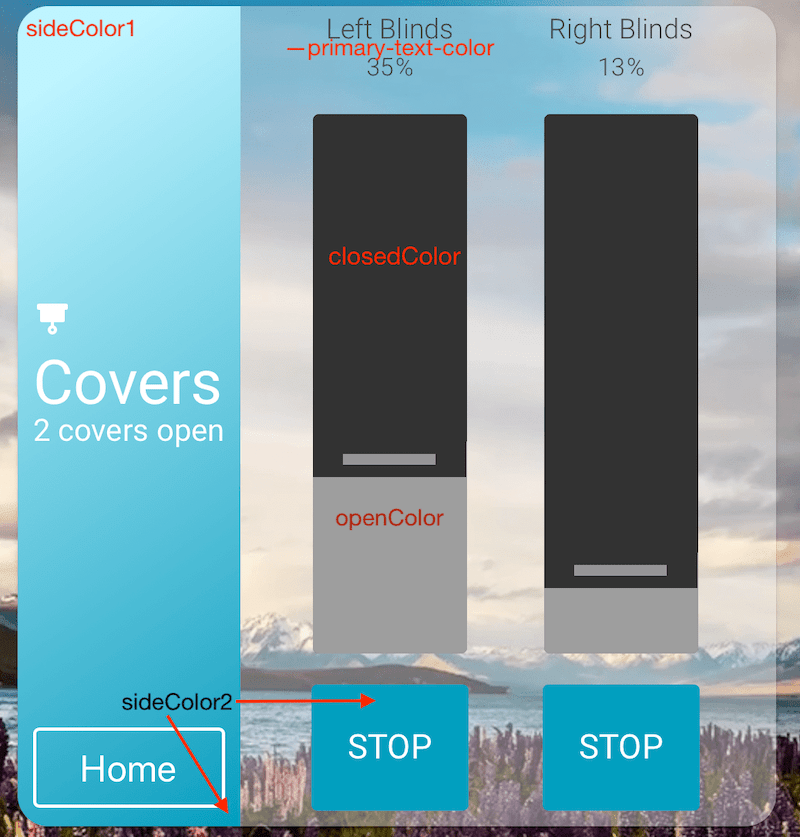
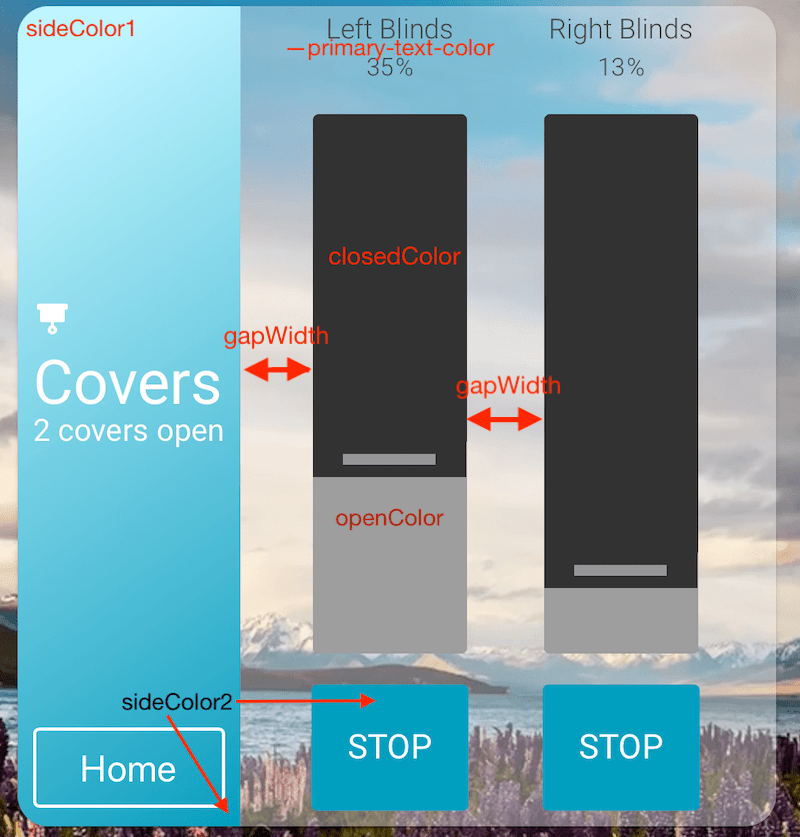
Add more style option
* Add gapWidth
* Add switchColor
* Fix invert side colors (please invert sideColor1/sideColor2 for same effect)
* From now, cover name, cover postition and STOP text will automatically change size to adapt parents' size
* Update README and option image guide to follow

Changed region(s): [[0.5625, 0.4349, 0.7188, 0.5281], [0.2812, 0.3728, 0.4062, 0.4659]]

diff --git a/vertical-slider-cover-card.js b/vertical-slider-cover-card.js
@@ -6,7 +6,7 @@
  * Based on      : github.com/DBuit/hass-smart-home-panel-card (Thanks to DBuit!)
  */
 
-console.info("%c [konnected.vn] Vertical Slider Cover Card  \n%c Version 0.0.5","color: red; font-weight: bold; background: black", "color: white; font-weight: bold; background: dimgray");
+console.info("%c [konnected.vn] Vertical Slider Cover Card  \n%c Version 0.0.6","color: red; font-weight: bold; background: black", "color: white; font-weight: bold; background: dimgray");
 
 import {
     LitElement,
@@ -32,6 +32,7 @@ class VerticalSliderCoverCard extends LitElement {
     var positionHeight = this.config.positionHeight ? this.config.positionHeight : "300px";
     var switchWidth = this.config.switchWidth ? this.config.switchWidth : "100px";
     var switchHeight = this.config.switchHeight ? this.config.switchHeight : "100px";
+    var gapWidth = this.config.gapWidth ? this.config.gapWidth : "50px";
     
     var countText = this.config.countText ? this.config.countText : "covers open";
     var entityCounter = 0;
@@ -41,8 +42,9 @@ class VerticalSliderCoverCard extends LitElement {
     var buttonPath = this.config.buttonPath ? this.config.buttonPath : "/lovelace/0";
     var background = this.config.background ? this.config.background : "transparent";
     
-    var sideColor1 = this.config.sideColor1 ? this.config.sideColor1 : '#b30000';
-    var sideColor2 = this.config.sideColor2 ? this.config.sideColor2 : '#ffcccc';
+    var sideColor1 = this.config.sideColor1 ? this.config.sideColor1 : '#ffcccc';
+    var sideColor2 = this.config.sideColor2 ? this.config.sideColor2 : '#b30000';
+    var switchColor = this.config.switchColor ? this.config.switchColor : sideColor2;
     var closedColor = this.config.closedColor ? this.config.closedColor : 'hsl(0, 0%, 20%)';
     var openColor = this.config.openColor ? this.config.openColor: 'hsl(0, 0%, 90%, 0.6)';
     var panelType = this.config.panelType;
@@ -67,7 +69,7 @@ class VerticalSliderCoverCard extends LitElement {
           </div>
           
           <div class="main">
-            <div class="inner-main" style="width:${this.config.entities.length * 150}px;">
+            <div class="inner-main" style="width:${this.config.entities.length * this._coverSize(positionWidth, gapWidth)}px;">
             ${this.config.entities.map(ent => {
                 entityCounter++;
                 var switchValue = 0;
@@ -83,11 +85,11 @@ class VerticalSliderCoverCard extends LitElement {
                         switchValue = 0;
                 }
                 return stateObj ? html`
-                    <div class="cover">
+                    <div class="cover" style="--cover-width:${this._coverSize(positionWidth,gapWidth)}px;">
                       <div class="cover-slider">
-                        <h3>${ent.name || stateObj.attributes.friendly_name}</h3>
+                        <p class="cover-name" style="--cover-fontSize: ${this._coverNameFont(positionWidth,gapWidth)}px;">${ent.name || stateObj.attributes.friendly_name}</p>
                         ${stateObj.attributes.supported_features > 9 ? html`
-                            <h4 class="position">${stateObj.state === "closed" ? 0 : Math.round(stateObj.attributes.current_position)}</h4>
+                            <p class="cover-position" style="--cover-fontSize: ${parseInt(positionWidth.replace(/px/,"")) / 4 - (parseInt(positionWidth.replace(/px/,"")) - 80) / 4}px;">${stateObj.state === "closed" ? 0 : Math.round(stateObj.attributes.current_position)}</p>
                             <div class="range-holder" style="--slider-height: ${positionHeight};--closed-color: ${closedColor};">
                               <input type="range" class="${stateObj.state}" style="--slider-width: ${positionWidth};--slider-height: ${positionHeight};--closed-color: ${closedColor};--open-color: ${openColor};" .value="${stateObj.state === "closed" ? 0 : Math.round(stateObj.attributes.current_position)}" @change=${e => this._setPosition(stateObj, e.target.value)}>
                             </div>
@@ -99,7 +101,7 @@ class VerticalSliderCoverCard extends LitElement {
                         `}
                         <div class="toggle">
                             <input ?checked=${stateObj.state == "open"} type="checkbox" id="toggle${entityCounter}" class="toggle-btn" @change=${e => this._switch(stateObj)} />
-                            <label for="toggle${entityCounter}" style="--switch-width: ${switchWidth};--switch-height: ${switchHeight};--switch-color: ${sideColor1};"><span></span></label>
+                            <label for="toggle${entityCounter}" style="--switch-width: ${switchWidth};--switch-height: ${switchHeight};--switch-color: ${switchColor};--switch-labelSize: ${parseInt(switchWidth.replace(/px/,"")) / 4}px;"><span></span></label>
                             </div>
                       </div>
                     </div>
@@ -135,12 +137,27 @@ class VerticalSliderCoverCard extends LitElement {
   _panelSize(panelType) {
     let sideWidth = 40;
     if (panelType === true) {
-    	console.log(panelType);
 		sideWidth = 30;
 	}
   	return sideWidth;
   }
-
+    
+  _coverSize(positionWidth, gapWidth) {
+    return (parseInt(positionWidth.replace(/px/,"")) + parseInt(gapWidth.replace(/px/,"")));
+  }
+  
+  _coverNameFont(positionWidth, gapWidth) {
+    var maxLength = 0;
+    this.config.entities.map(ent => {
+          const stateObj = this.hass.states[ent.entity];
+          var name = ent.name || stateObj.attributes.friendly_name;
+          if(name.length > maxLength) {
+              maxLength = name.length;
+          }
+      })
+    return (((parseInt(positionWidth.replace(/px/,"")) + parseInt(gapWidth.replace(/px/,"")) - 4 ) / maxLength) * 1.6) | 0;
+  }
+  
   _switch(state) {
       this.hass.callService("cover", "stop_cover", {
         entity_id: state.entity_id    
@@ -193,20 +210,18 @@ class VerticalSliderCoverCard extends LitElement {
         }
         .page > .side {
           padding: 10px;
-          width: var(--side-width);
+          width: var(--side-width)%;
           display:flex;
           flex-direction:column;
           background: rgb(28,122,226);
-          background: linear-gradient(325deg, var(--sideColor-1) 0%, var(--sideColor-2) 90%);
+          background: linear-gradient(145deg, var(--sideColor-1) 0%, var(--sideColor-2) 90%);
           justify-content:space-between
         }
         .side .header {
-          
         }
         .side .center {
           display:flex;
           flex-direction:column;
-          
         }
         .side .center .icon {
           display:block;
@@ -245,7 +260,6 @@ class VerticalSliderCoverCard extends LitElement {
         }
         
         .page > .main {
-          width:70%;
           overflow-x:scroll;
         }
         .page > .main > .inner-main {
@@ -256,7 +270,7 @@ class VerticalSliderCoverCard extends LitElement {
             margin:auto;
         }
         .page > .main > .inner-main > .cover {
-          width:150px;
+          width: var(--cover-width);
           display:inline-block;
         }
         
@@ -287,6 +301,7 @@ class VerticalSliderCoverCard extends LitElement {
           font-size:20px;
           margin-top:0;
         }
+        
         h3 {
           color: #FFF;
           display: block;
@@ -296,9 +311,27 @@ class VerticalSliderCoverCard extends LitElement {
           text-align: center;
           font-size:18px;
         }
-        .cover-slider h3 {
+        
+        .cover-name {
+          display: block;
+          font-weight: 300;
+          margin-top: 5px;
+          margin-bottom: 5px;
+          text-align: center;
+          font-size: var(--cover-fontSize);
+        }
+        .cover-position {
+          display: block;
+          font-weight: 300;
+          margin-top: 15px;
+          margin-bottom: 10px;
+          text-align: center;
+          font-size: var(--cover-fontSize);
+        }
+        .cover-slider .cover-name, .cover-position {
           color: var(--primary-text-color);
         }
+        
         h4 {
           color: var(--primary-text-color);
           display: block;
@@ -342,7 +375,7 @@ class VerticalSliderCoverCard extends LitElement {
           height: var(--slider-width);
           -webkit-appearance: none;
           color: var(--open-color);
-          margin-top: -1px;
+          margin-top: 0px;
           transition: box-shadow 0.2s ease-in-out;
         }
         .range-holder input[type="range"]::-webkit-slider-thumb {
@@ -436,7 +469,7 @@ class VerticalSliderCoverCard extends LitElement {
           border-radius: 4px;
           color: #FFF;
           display:block;
-          font-size:22px;
+          font-size:var(--switch-labelSize);
         }
         .toggle > input.toggle-btn + label:active,
         .toggle > input.toggle-btn + label {

diff --git a/README.md b/README.md
@@ -40,6 +40,7 @@ Color Picker Helper
 | positionWidth     | string  | **Optional** | Width of each slider in px                  | `100px`                  |
 | switchHeight      | string  | **Optional** | Height of Stop button at bottom             | `100px`                  |
 | switchWidth       | string  | **Optional** | Width of Stop button at bottom              | `100px`                  |
+| gapWidth          | string  | **Optional** | Width of Space between 2 cover slider       | `50px`                   |
 | showButton        | string  | **Optional** | Show Home button at bottom of side bar      | `hide`                   |
 | buttonPath        | string  | **Optional** | Path of Lovelace View when click button     | `/lovelace/0`            |
 | buttonText        | string  | **Optional** | Text to show on button                      | `Home`                   |
@@ -49,6 +50,7 @@ Color Picker Helper
 | sideColor2        | string  | **Optional** | Lower-right color of sidebar (~)            | `#ffcccc`                |
 | openColor         | string  | **Optional** | Color of lower slider bar (~)               | `hsl(0, 0%, 90%, 0.8)`   |
 | closedColor       | string  | **Optional** | Color of upper slider bar (~)               | `hsl(0, 0%, 20%)`        |
+| switchColor       | string  | **Optional** | background color of Stop button (~)         | `sideColor2`             |
 
 ## STARTING A NEW CARD FROM vertical-silder-cover-card
 
@@ -119,6 +121,10 @@ Customize to suit your needs and contribute it back to the community.
 Found issue? Please raise an issue in this repository or send me email to <duytruong@konnected.vn>
 
 And suggestion and comment are warmly welcome and appreciated!
+
+### MIGHT NOT WORK ON FIREFOX
+
+Have some issues of displaying on firefox. Please try with caution!
 
 ## MORE WORKS TO DO
 
